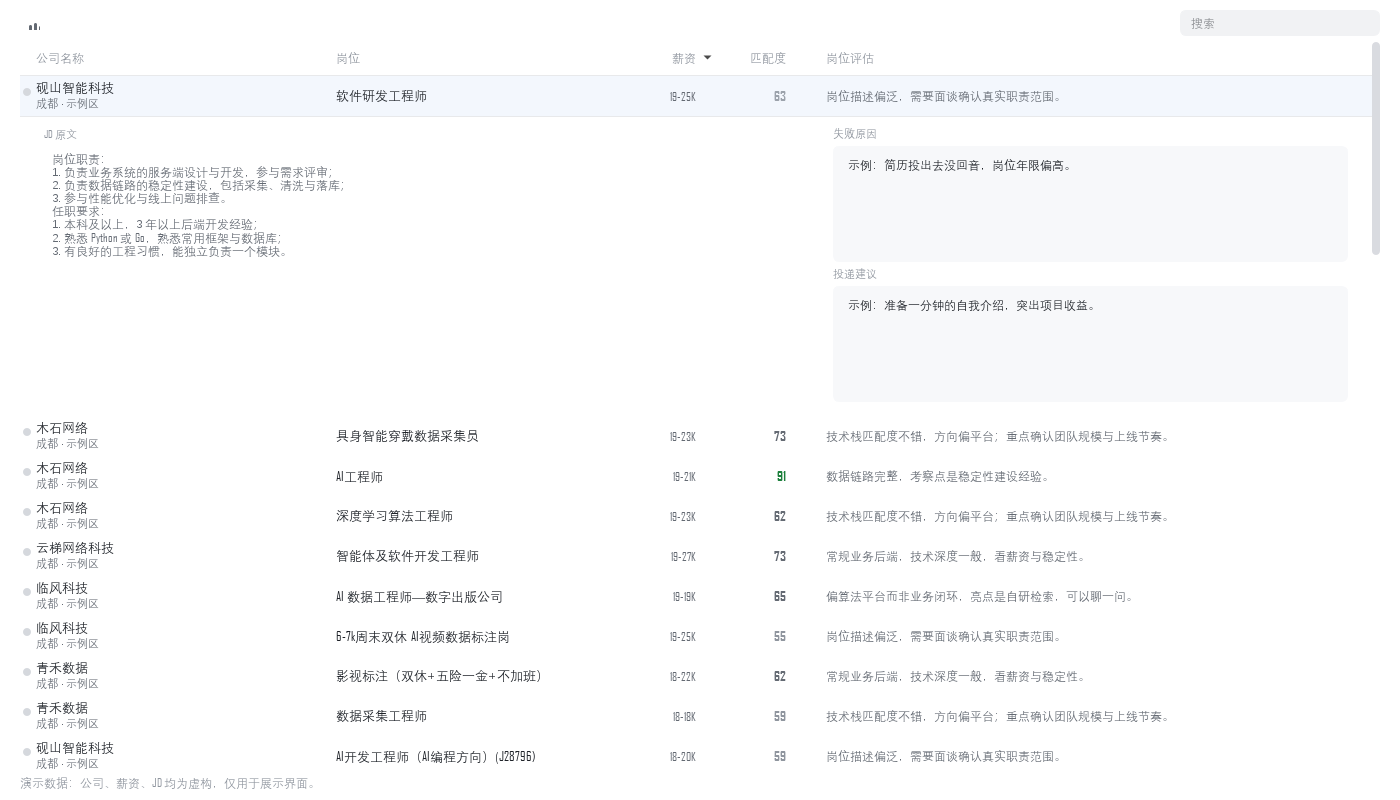
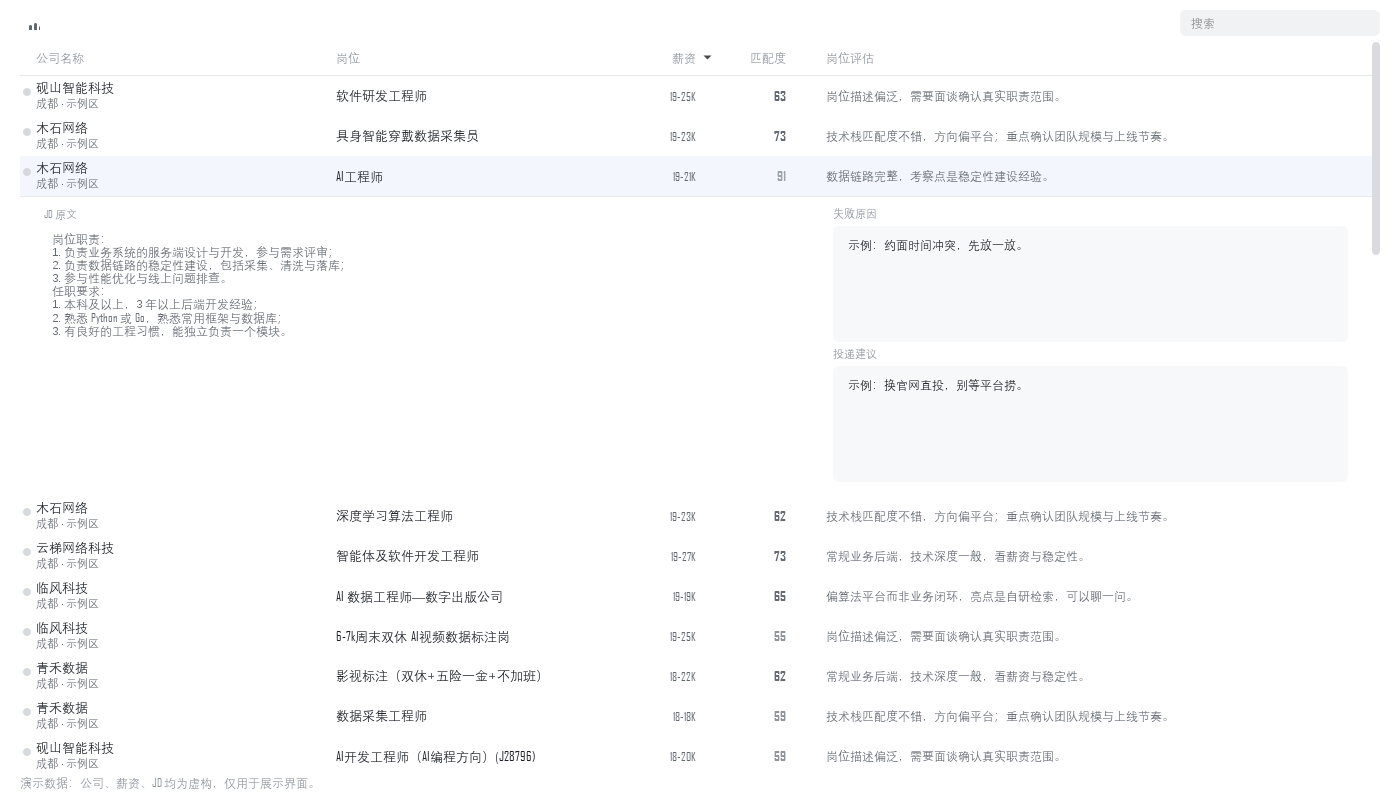
docs: 预览图拆成「列表」「展开抽屉」两张

diff --git a/tools/make_preview.py b/tools/make_preview.py
@@ -42,14 +42,15 @@ def main() -> int:
     out = ROOT / "docs" / "preview"
     out.mkdir(parents=True, exist_ok=True)
 
-    # 先展开一行再截第一张，读者一眼能看懂这个界面的交互方式
-    win.on_click(win.proxy.index(2, 0))
-    for _ in range(15):
+    # 第一张：干净列表
+    win.collapse()
+    for _ in range(10):
         app.processEvents()
     win.grab().save(str(out / "ui-table.png"))
 
-    win.on_click(win.proxy.index(0, 0))
-    for _ in range(15):
+    # 第二张：展开一行，看 JD 与三个记录框
+    win.on_click(win.proxy.index(2, 0))
+    for _ in range(20):
         app.processEvents()
     win.grab().save(str(out / "ui-drawer.png"))
 
